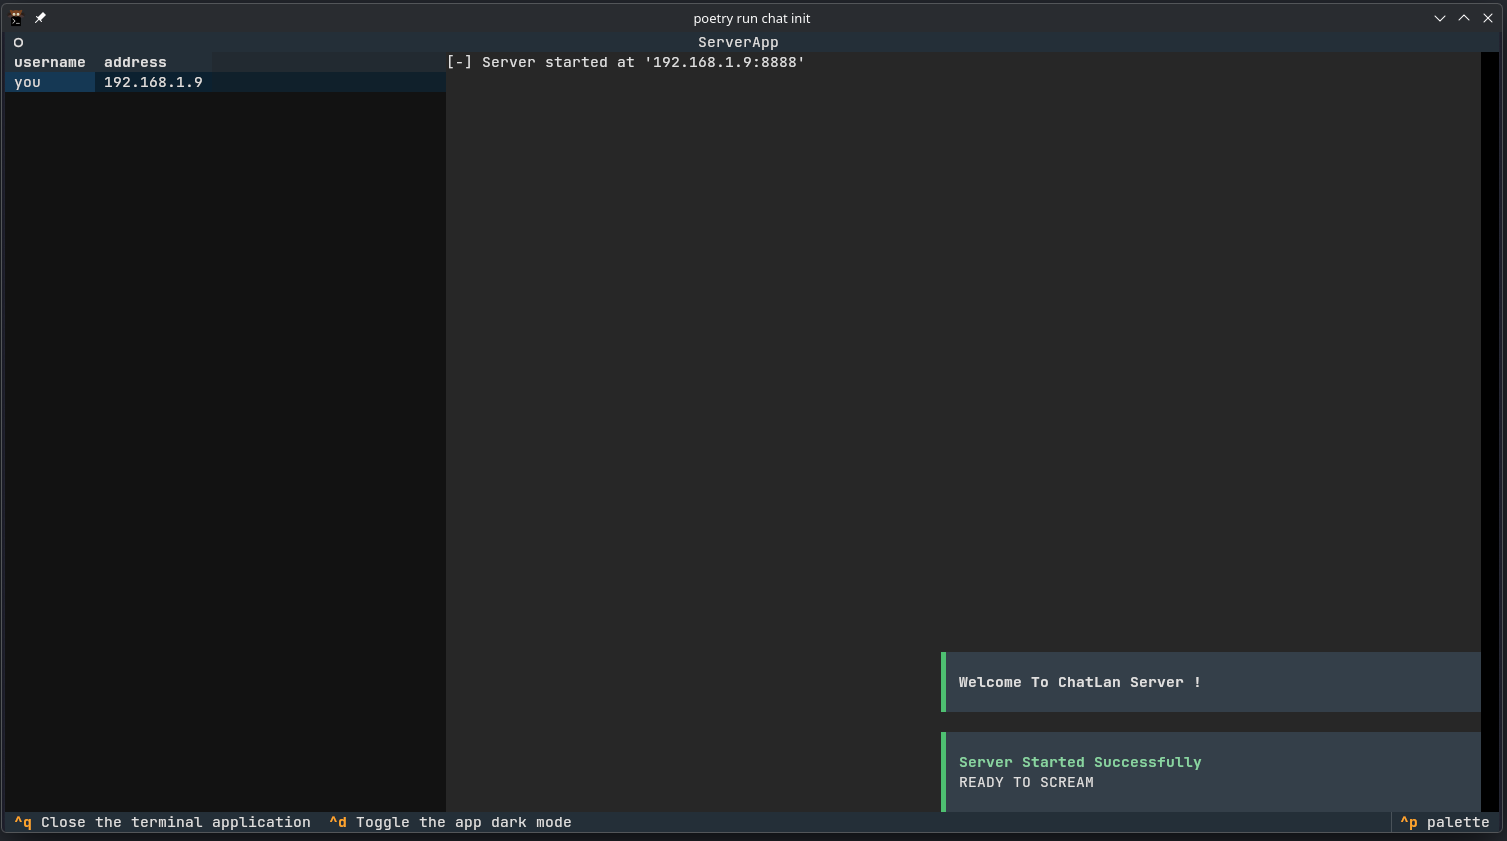
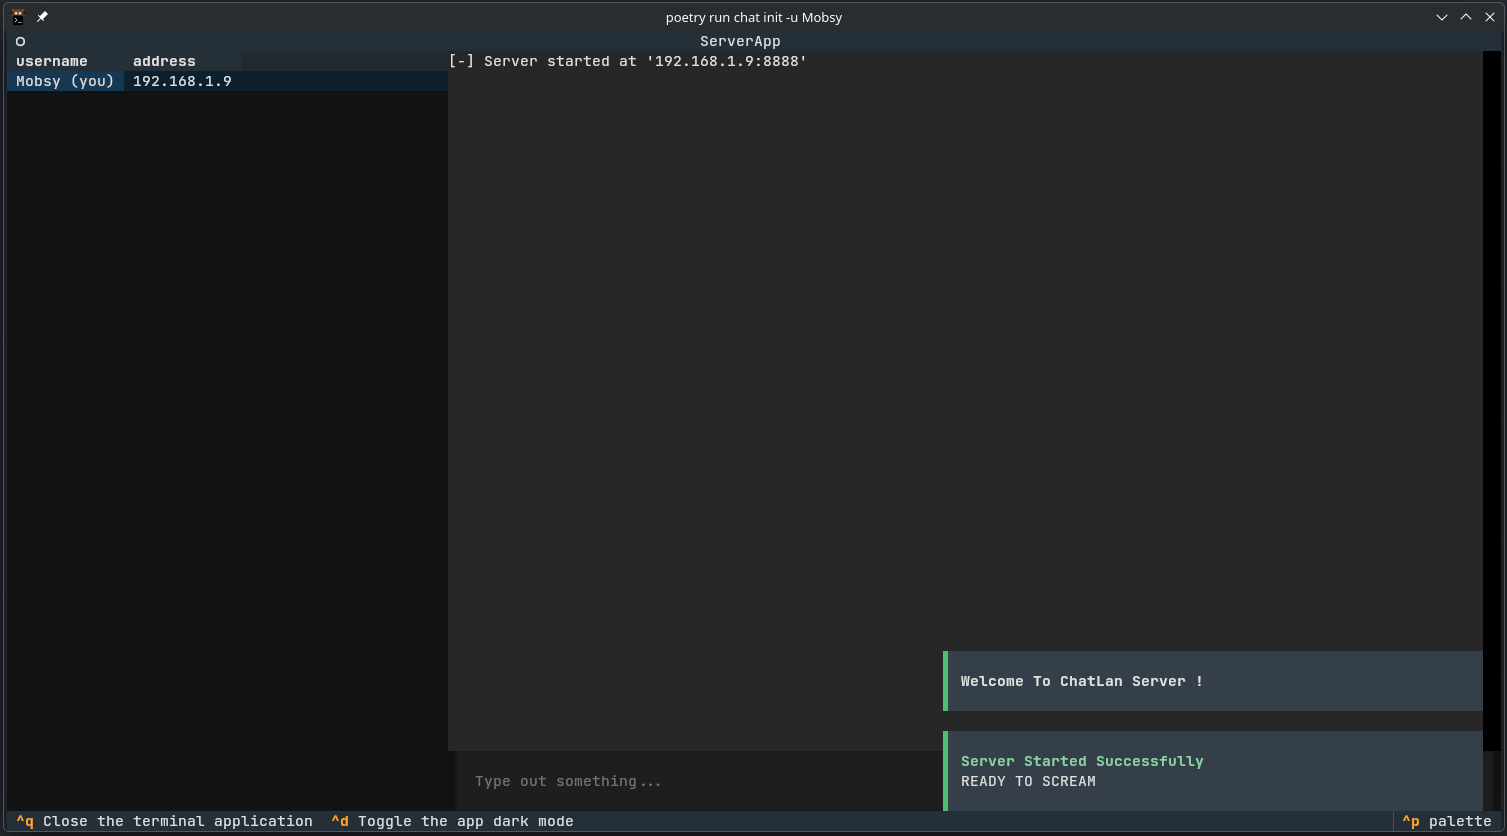
Updated Documentation for the new version V0.2.0

Changed region(s): [[0.0, 0.0, 1.0, 0.9952], [0.2807, 0.0, 0.5614, 0.0933], [0.0, 0.0, 0.1559, 0.1244]]

diff --git a/README.md b/README.md
@@ -102,11 +102,18 @@ this will show the following
 
 - ## init
 
-**Usage: chat init [options]** 
+**Usage: chat init [options] [IP]** 
 
-> **Initialize a chatlan server at the host ip address**
+> **Initialize a chatlan server at a given ip address**
 
 ![init command help menu](images/init_command.png)
+
+- arguments:
+    - IP optional [default: your current ip address]:
+        
+        a string representing the ip to use in the server runtime, this argument is only meant for advanced configuration most users are advise to only use the options of **`chat init`**
+
+        i.e: `chat init 192.168.2.54`
 
 - options:
     - -p, --port \<PORT> [DEFAULT: 8888]: 
@@ -115,6 +122,12 @@ this will show the following
 
         **if ignored the default ChatLan PORT (8888) is used**
     
+    - -u, --username \<USERNAME>:
+
+        USERNAME is a string representing the server username for the chat session, this is only relevant if you plan to use the server to chat directly
+
+        **if ignored your computer hostname is used instead**
+
     - -- help:
         
         Display the help menu
@@ -140,7 +153,8 @@ this will show the following
             192.168.1.10:8888
 
 > [!NOTE]
-> The any ADDRESS with '127.0.0.1' as the IP are invalid
+> The any ADDRESS with '127.*' or '0.0.0.0' as the IP are invalid
+> i.e : 127.0.0.1, 127.0.0.2, 127.20.50,254
 
 - options:
     - -u, --username [DEFAULT: your machine hostname]:
@@ -280,6 +294,6 @@ ff02::2    ip6-allrouters
 
 # Planned features: 
 
-- [ ] server broadcast input
+- [x] server broadcast input
 - [ ] message widget UI.
 - [ ] user random colors
